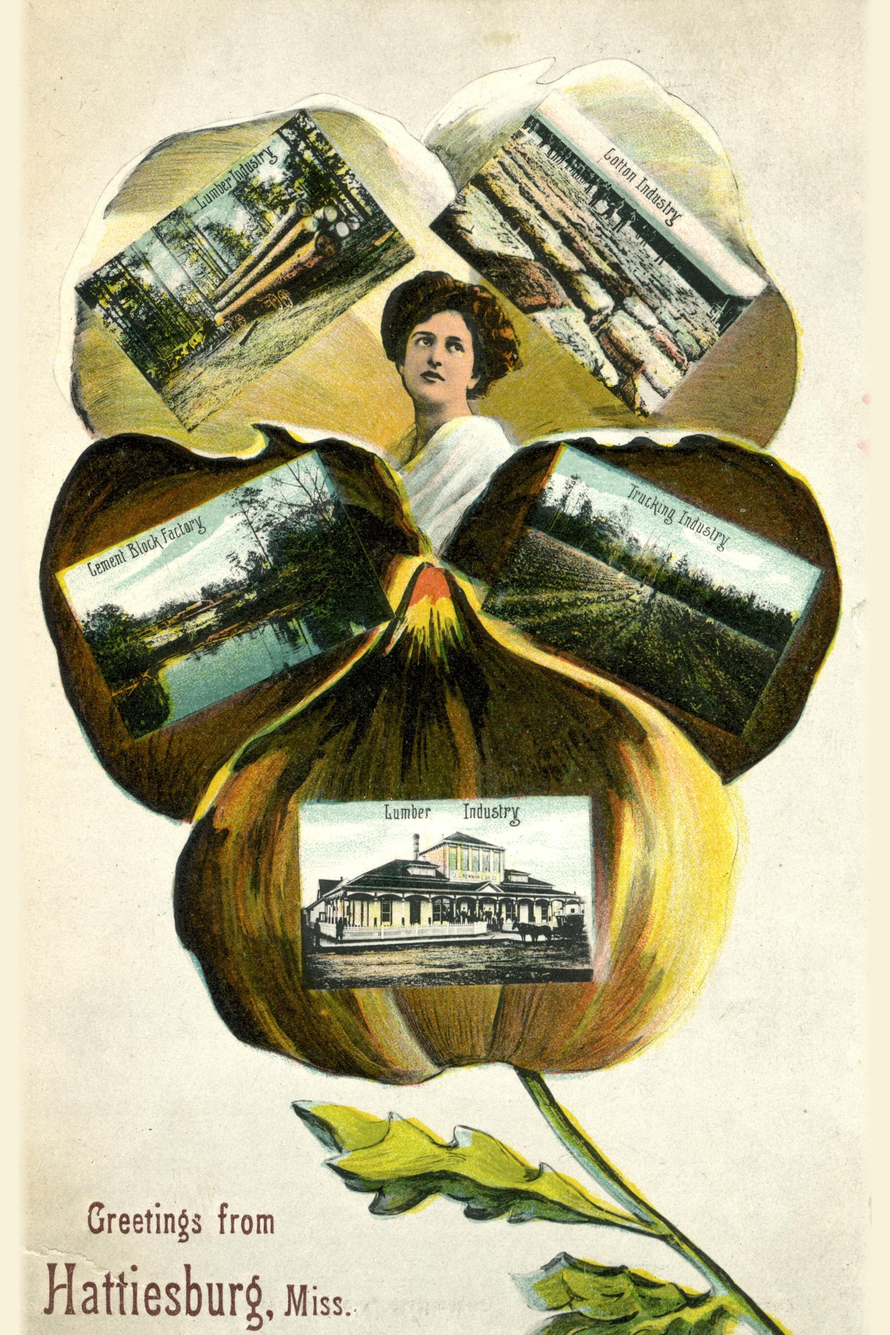
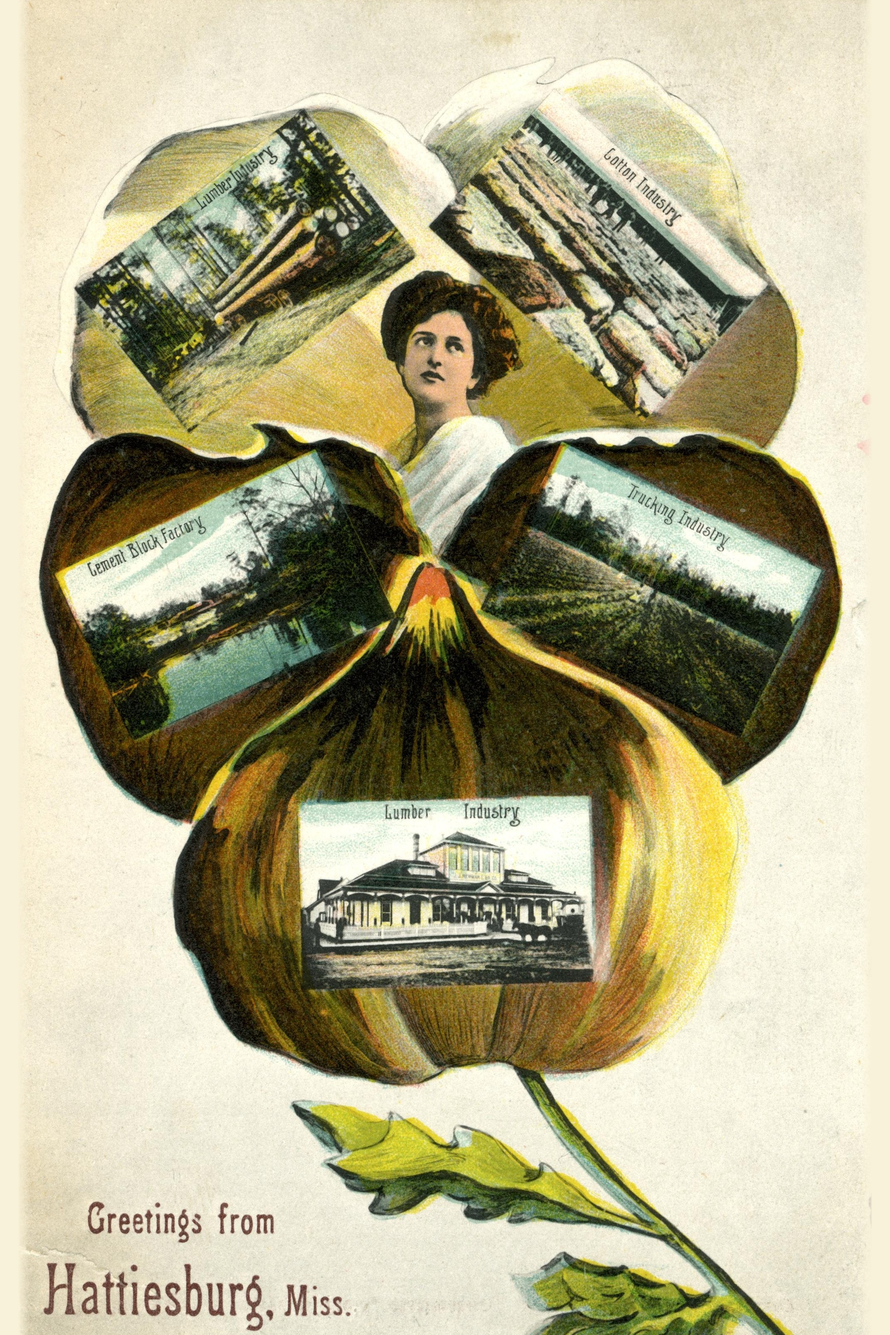
Retouched print files (automated despeckle layer) + DTG-compliant PE print in HHS purple
Claude-Session: https://claude.ai/code/session_01TqhzTg1EJZZfGMFmW7WiyP

diff --git a/src/retouch_postcard.py b/src/retouch_postcard.py
@@ -1,0 +1,61 @@
+#!/usr/bin/env python3
+"""retouch_postcard.py — automated retouch + enlargement for scanned postcard prints.
+
+Stages (all deterministic, no generative fill):
+  1. DESPECKLE: find small extreme-luminance specks (scanner dust, foxing dots)
+     and replace ONLY those pixels with the local median. Component size is
+     capped so real content (text, halftone, postmarks) is never touched.
+  2. SUPER-RESOLUTION 2x: OpenCV dnn_superres (EDSR x2, CPU) for enlargements
+     past ~1.3x, else plain LANCZOS.
+  3. Fit to target print size at 200 dpi minimum, save with dpi tag.
+
+Usage: python3 retouch_postcard.py in.jpg out.jpg --win 12 --hin 18 [--sr] [--dpi 200]
+"""
+import argparse, numpy as np, cv2
+from PIL import Image
+from scipy import ndimage
+
+def despeckle(arr, max_size=60, z=2.6):
+    g = arr.mean(axis=2)
+    med = cv2.medianBlur(g.astype(np.uint8), 7).astype(float)
+    resid = g - med
+    sd = max(resid.std(), 1e-6)
+    hot = np.abs(resid) > z * sd
+    lab, n = ndimage.label(hot)
+    sizes = ndimage.sum(hot, lab, range(1, n + 1))
+    keep = np.isin(lab, np.where(sizes <= max_size)[0] + 1)   # only small components
+    out = arr.copy()
+    medc = cv2.medianBlur(arr, 7)
+    out[keep] = medc[keep]
+    return out, int(keep.sum()), int(n)
+
+def upscale(arr, scale, model='EDSR_x2.pb'):
+    if scale <= 1.02: return arr
+    if scale <= 1.35:
+        return cv2.resize(arr, None, fx=scale, fy=scale, interpolation=cv2.INTER_LANCZOS4)
+    sr = cv2.dnn_superres.DnnSuperResImpl_create()
+    sr.readModel(model); sr.setModel('edsr', 2)
+    up = sr.upsample(arr)                                      # 2x
+    if abs(scale - 2) > 0.02:
+        up = cv2.resize(up, None, fx=scale/2, fy=scale/2, interpolation=cv2.INTER_AREA if scale < 2 else cv2.INTER_LANCZOS4)
+    return up
+
+if __name__ == '__main__':
+    p = argparse.ArgumentParser()
+    p.add_argument('inp'); p.add_argument('out')
+    p.add_argument('--win', type=float, required=True); p.add_argument('--hin', type=float, required=True)
+    p.add_argument('--dpi', type=int, default=200)
+    p.add_argument('--sr', action='store_true', help='allow EDSR 2x when upscale > 1.35x')
+    a = p.parse_args()
+    img = cv2.imread(a.inp)
+    img, fixed, ncomp = despeckle(img)
+    print(f'despeckle: {fixed} px in small components (of {ncomp} candidates)')
+    tw, th = int(a.win * a.dpi), int(a.hin * a.dpi)
+    scale = max(tw / img.shape[1], th / img.shape[0])
+    print(f'native {img.shape[1]}x{img.shape[0]} -> target {tw}x{th} (scale {scale:.2f}x, native dpi {img.shape[1]/a.win:.0f})')
+    if scale > 1.35 and not a.sr:
+        print('WARNING: >1.35x enlargement without --sr; using LANCZOS')
+    img = upscale(img, scale) if (a.sr or scale <= 1.35) else cv2.resize(img, None, fx=scale, fy=scale, interpolation=cv2.INTER_LANCZOS4)
+    img = img[:th, :tw]
+    Image.fromarray(cv2.cvtColor(img, cv2.COLOR_BGR2RGB)).save(a.out, quality=95, dpi=(a.dpi, a.dpi))
+    print('saved', a.out, img.shape[1], 'x', img.shape[0])

diff --git a/README.md b/README.md
@@ -8,6 +8,9 @@ Print-ready files for Printful products. Sources are public-domain postcards.
 - `hattiesburg_main_street_18x12.jpg`: 3600×2400 (18×12 in at 200 dpi). "Main Street, Hattiesburg, Miss.", c. 1915–20 white-border card.
   Source: MDAH Cooper Postcard Collection, PI/1992.0001, system ID 90199 (same terms).
 
-Processing: stitched from MDAH's full-resolution zoom tiles, trimmed to the card edge, and fitted to the frame ratio (the pansy card gets a few percent of matching paper on each side). No retouching.
-- `hattiesburg_pe_front.png`: 3359×1306 transparent PNG at 300 dpi (about 11.2 × 4.4 in), navy #1F2A4A. Chest print for the Hattiesburg Physical Ed. ringer tee, modeled on the Hammond Phys Ed ringer.
+Processing: stitched from MDAH's full-resolution zoom tiles, run through the automated retouch layer (`src/retouch_postcard.py`: dust/foxing despeckle only — type, halftone, postmarks and creases untouched), trimmed to the card edge, and fitted to the frame ratio (the pansy card gets a few percent of matching paper on each side).
+
+Scaling: both cards are ~173 dpi native at the launch sizes (12×18 / 18×12) — above Printful's 150 dpi floor. Larger sizes (18×24, 24×36) need the script's `--sr` EDSR 2× pass (CPU-slow; run as a batch job) or Brad's Photoshop Super Resolution.
+- `hattiesburg_pe_front.png`: 3150×1224 transparent PNG at 300 dpi (10.5 in wide), DTG-compliant (binary alpha, uniform ink). Color #3A1055 Dark Plum from the production color bank — Hattiesburg High's colors are purple and gold (documented to the 1924 state-title run), dominant color purple. Chest print for the Hattiesburg Physical Ed. ringer tee.
   Fonts: Graduate (OFL) and Oswald (OFL), Google Fonts. Generator: `src/hattiesburg_pe.py`.
+  Per-school protocol: one shirt per verified school, in that school's dominant color, one school color per product (anti-signal-stack rule from NOSTALGIC_PRINT_PRODUCTION.md on Drive).
